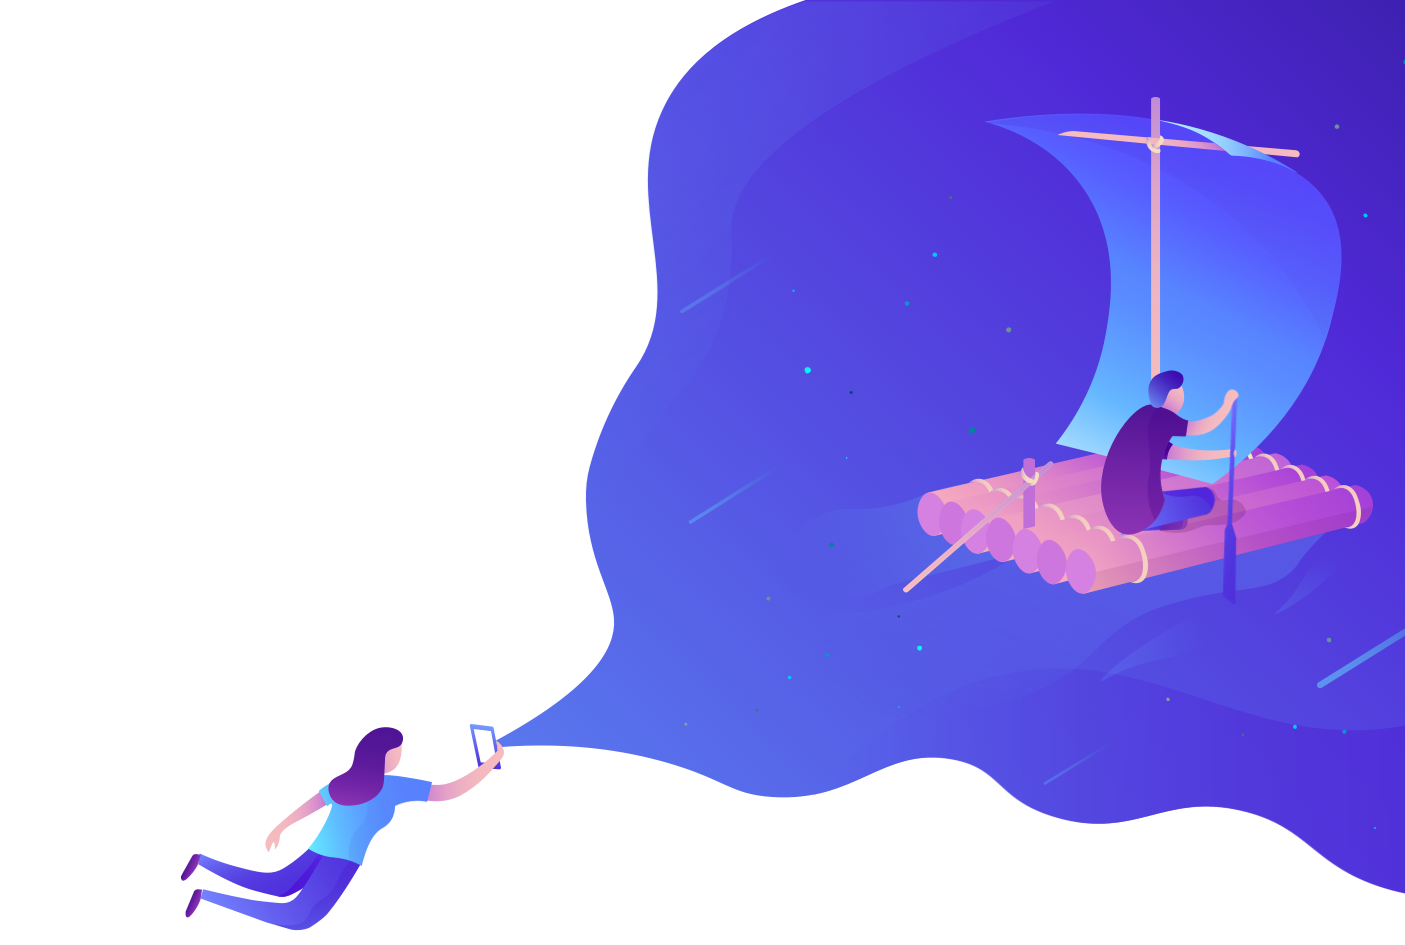
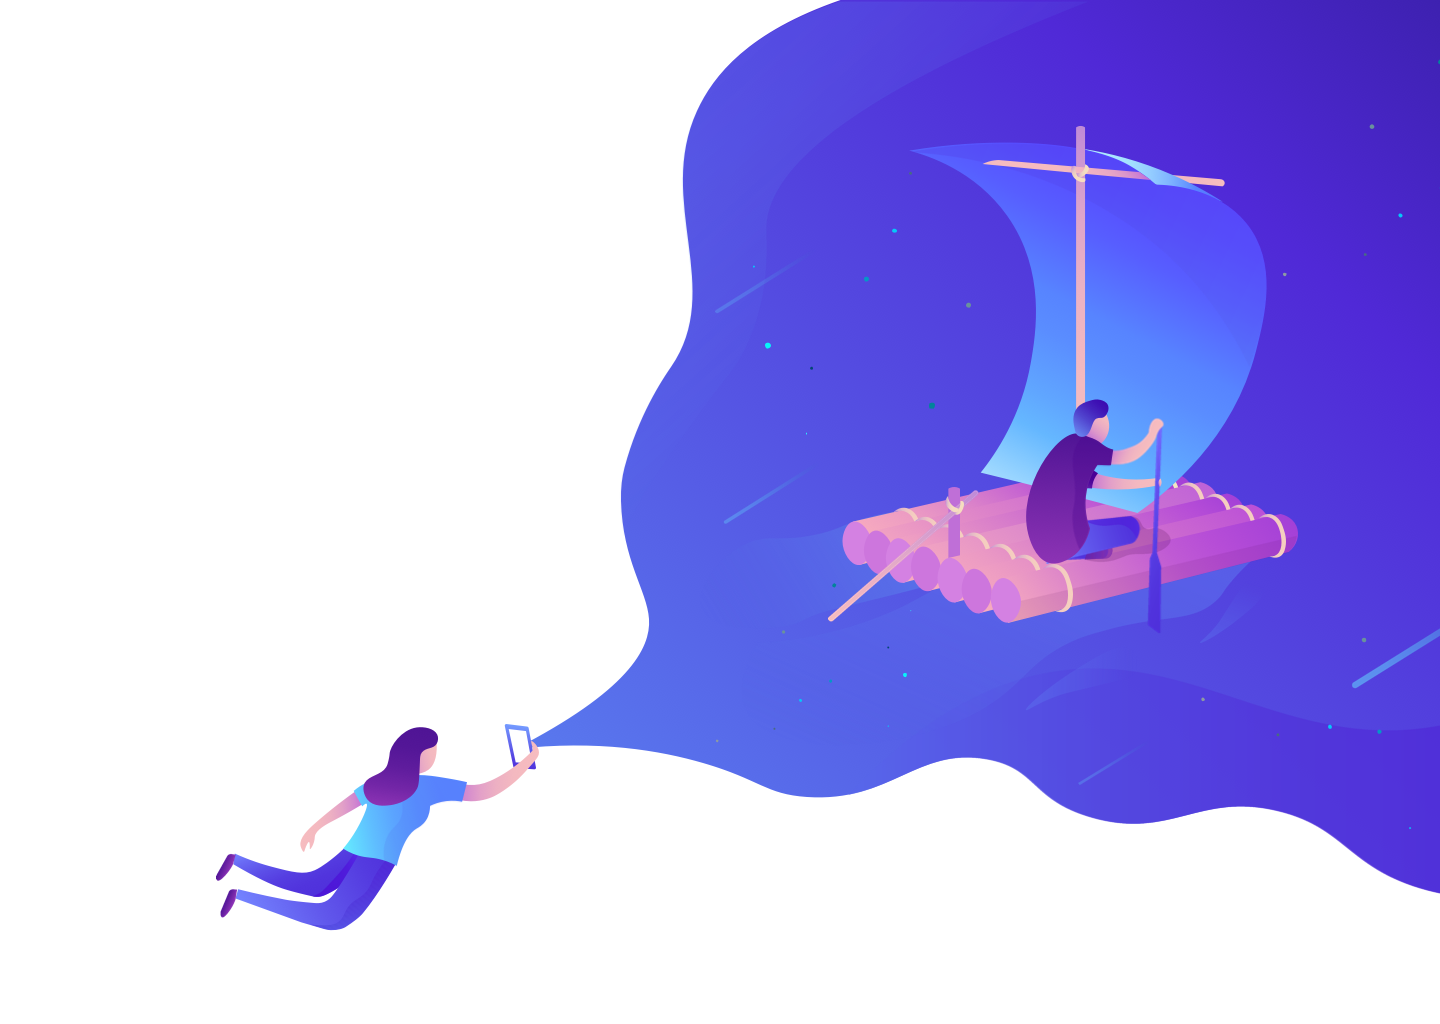
minor change to background

diff --git a/web/src/App.css b/web/src/App.css
@@ -5,7 +5,7 @@
 .Landing {
     background-image: url(./raft-education-background.png);
     height: 100%;
-    width: 1100px;
+    width: 1250px;
     right: 0;
     position: absolute;
     z-index: 1;
